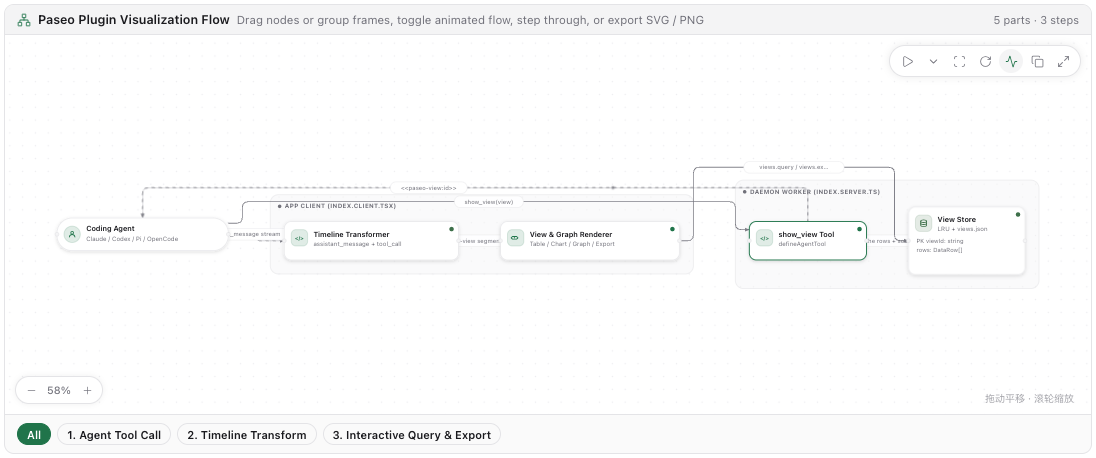
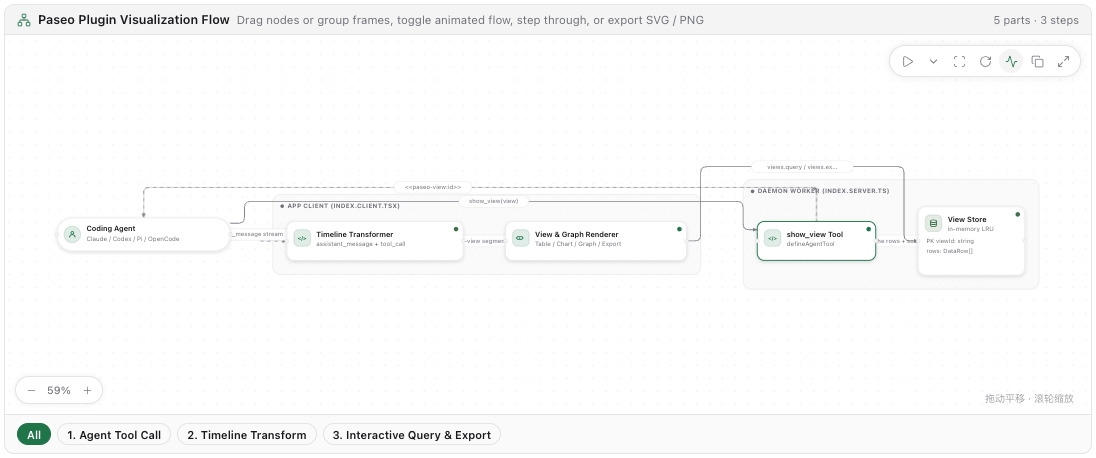
fix: keep tool-backed views in memory

diff --git a/tests/server-sources.test.ts b/tests/server-sources.test.ts
@@ -1,9 +1,9 @@
 import http from "node:http";
-import { mkdir, mkdtemp, rm, writeFile } from "node:fs/promises";
+import { mkdir, mkdtemp, readdir, rm, writeFile } from "node:fs/promises";
 import os from "node:os";
 import path from "node:path";
 import { DatabaseSync } from "node:sqlite";
-import { afterEach, describe, expect, it } from "vitest";
+import { afterEach, describe, expect, it, vi } from "vitest";
 import { parseDotEnv, redactSecret, resolvePostgresUrl } from "../server/env-loader";
 import { createQueryViewHandler } from "../server/handlers";
 import { createShowViewTool } from "../server/show-view-tool";
@@ -18,6 +18,25 @@ async function makeTempDir() {
   const dir = await mkdtemp(path.join(os.tmpdir(), "paseo-gt-test-"));
   tempDirs.push(dir);
   return dir;
+}
+
+function showViewContext(
+  cwd: string,
+): Parameters<ReturnType<typeof createShowViewTool>["execute"]>[1] {
+  return {
+    agent: {
+      id: "agent-1",
+      workspaceId: "ws-1",
+      parentAgentId: null,
+      provider: "codex",
+      cwd,
+      title: "Test",
+      background: false,
+      metadata: {},
+    },
+    paseo: {} as never,
+    signal: new AbortController().signal,
+  };
 }
 
 afterEach(async () => {
@@ -325,6 +344,103 @@ describe("server sources and view lifecycle", () => {
     expect(bashRows).toEqual([{ lang: "bash", val: 42 }]);
   });
 
+  it("evicts the least recently used view when inserting a 201st entry", async () => {
+    const store = new ViewStore();
+    const input = {
+      spec: { type: "table" as const },
+      rows: [],
+      cwd: "/workspace",
+      agentId: "agent-1",
+    };
+    const read = await store.create(input);
+    const updated = await store.create(input);
+    const oldest = await store.create(input);
+    for (let i = 3; i < 200; i++) await store.create(input);
+
+    expect(await store.get(read.viewId)).toEqual(read);
+    const updatedRows = [{ score: 42 }];
+    expect(await store.updateRows(updated.viewId, updatedRows)).toMatchObject({ rows: updatedRows });
+    const newest = await store.create({ ...input, agentId: "agent-2" });
+
+    const entries = await store.list();
+    expect(entries).toHaveLength(200);
+    expect(entries.slice(0, 3).map((entry) => entry.viewId)).toEqual([
+      newest.viewId,
+      updated.viewId,
+      read.viewId,
+    ]);
+    expect(await store.list("agent-2")).toEqual([newest]);
+    expect(await store.get(oldest.viewId)).toBeNull();
+    expect(await store.updateRows(oldest.viewId, [])).toBeNull();
+  });
+
+  it("keeps show_view HTTP rows and headers in memory and expires tokens across store instances", async () => {
+    const dir = await makeTempDir();
+    const headers = { authorization: "Bearer test-only" };
+    const rows = [{ report: "in-memory result" }];
+    const server = http.createServer((req, res) => {
+      if (req.headers.authorization !== headers.authorization) {
+        res.writeHead(401).end();
+        return;
+      }
+      res.writeHead(200, { "content-type": "application/json" }).end(JSON.stringify(rows));
+    });
+    openServers.push(server);
+    await new Promise<void>((resolve) => server.listen(0, "127.0.0.1", () => resolve()));
+    const { port } = server.address() as { port: number };
+    const source = { kind: "http", url: `http://127.0.0.1:${port}`, headers };
+
+    // Redirect the former default path before loading the store. Check filesystem calls
+    // as well as files so a pending background snapshot cannot pass this test.
+    const tmpdir = vi.spyOn(os, "tmpdir").mockReturnValue(dir);
+    const readSnapshot = vi.fn().mockRejectedValue(new Error("Unexpected view snapshot read"));
+    const makeSnapshotDir = vi.fn().mockRejectedValue(new Error("Unexpected view snapshot"));
+    const writeSnapshot = vi.fn().mockRejectedValue(new Error("Unexpected view snapshot"));
+    vi.resetModules();
+    vi.doMock("node:fs/promises", async (importOriginal) => ({
+      ...(await importOriginal<typeof import("node:fs/promises")>()),
+      mkdir: makeSnapshotDir,
+      readFile: readSnapshot,
+      writeFile: writeSnapshot,
+    }));
+    try {
+      const { ViewStore } = await import("../server/view-store");
+      const store = new ViewStore();
+      const getSettings = () => ({ ...DEFAULT_SETTINGS, allowHttpSource: true });
+      const result = await createShowViewTool(store, getSettings).execute(
+        { view: { type: "table", source } },
+        showViewContext(dir),
+      );
+      expect(result.isError).toBeUndefined();
+      const { viewId } = result.structuredContent as { viewId: string };
+      expect(result.structuredContent).toMatchObject({
+        token: `<<paseo-view:${viewId}>>`,
+        preview: rows,
+      });
+      expect(await store.get(viewId)).toMatchObject({ rows, spec: { source: { headers } } });
+      expect(await createQueryViewHandler(store, getSettings)({ viewId, refresh: true })).toMatchObject({
+        rows,
+        error: null,
+      });
+
+      const recreated = new ViewStore();
+      expect(await recreated.get(viewId)).toBeNull();
+      expect(await recreated.list()).toEqual([]);
+      expect(await createQueryViewHandler(recreated, getSettings)({ viewId })).toMatchObject({
+        rows: [],
+        error: expect.stringContaining("was not found"),
+      });
+      expect(writeSnapshot).not.toHaveBeenCalled();
+      expect(makeSnapshotDir).not.toHaveBeenCalled();
+      expect(readSnapshot).not.toHaveBeenCalled();
+      expect(await readdir(dir)).toEqual([]);
+    } finally {
+      vi.doUnmock("node:fs/promises");
+      vi.resetModules();
+      tmpdir.mockRestore();
+    }
+  });
+
   it("stores views via show_view, supports control source overrides, and refreshes stale polling views", async () => {
     const dir = await makeTempDir();
     await writeFile(
@@ -342,7 +458,7 @@ describe("server sources and view lifecycle", () => {
       "utf8",
     );
 
-    const store = new ViewStore({ storeDir: dir });
+    const store = new ViewStore();
     const sourceSettings = { ...DEFAULT_SETTINGS, allowFileSource: true };
     const tool = createShowViewTool(store, () => sourceSettings);
     const result = await tool.execute(
@@ -365,20 +481,7 @@ describe("server sources and view lifecycle", () => {
           ],
         },
       },
-      {
-        agent: {
-          id: "agent-1",
-          workspaceId: "ws-1",
-          parentAgentId: null,
-          provider: "codex",
-          cwd: dir,
-          title: "Test",
-          background: false,
-          metadata: {},
-        },
-        paseo: {} as never,
-        signal: new AbortController().signal,
-      },
+      showViewContext(dir),
     );
 
     expect(result.isError).toBeUndefined();
@@ -413,7 +516,5 @@ describe("server sources and view lifecycle", () => {
 
     const refreshed = await handler({ viewId: sc.viewId });
     expect(refreshed.rows).toEqual([{ region: "NA", revenue: 999 }]);
-
-    await store.flush();
   });
 });

diff --git a/server/view-store.ts b/server/view-store.ts
@@ -1,7 +1,4 @@
 import { randomBytes } from "node:crypto";
-import { mkdir, readFile, rename, writeFile } from "node:fs/promises";
-import os from "node:os";
-import path from "node:path";
 import type { DataRow } from "../shared/query-engine";
 import type { ViewSpec } from "../shared/view-schema";
 
@@ -16,65 +13,17 @@ export interface StoredView {
   sourceKind: string | null;
 }
 
-const DEFAULT_STORE_DIR = path.join(os.tmpdir(), "paseo-graph-tables-views");
 const DEFAULT_MAX_ENTRIES = 200;
 
 export class ViewStore {
   private readonly entries = new Map<string, StoredView>();
-  private readonly storePath: string | null;
   private readonly maxEntries: number;
-  private loaded = false;
-  private writeChain: Promise<void> = Promise.resolve();
 
-  constructor(options?: { storeDir?: string | null; maxEntries?: number }) {
-    const dir = options?.storeDir === undefined ? DEFAULT_STORE_DIR : options.storeDir;
-    this.storePath = dir ? path.join(dir, "views.json") : null;
-    this.maxEntries = options?.maxEntries ?? DEFAULT_MAX_ENTRIES;
-  }
-
-  private async ensureLoaded(): Promise<void> {
-    if (this.loaded) return;
-    this.loaded = true;
-    if (!this.storePath) return;
-    try {
-      const content = await readFile(this.storePath, "utf8");
-      const parsed = JSON.parse(content) as unknown;
-      if (Array.isArray(parsed)) {
-        for (const item of parsed) {
-          if (item && typeof item === "object" && typeof (item as StoredView).viewId === "string") {
-            const view = item as StoredView;
-            this.entries.set(view.viewId, view);
-          }
-        }
-        this.trim();
-      }
-    } catch {
-      // No prior store file or unreadable; start empty
+  constructor({ maxEntries = DEFAULT_MAX_ENTRIES }: { maxEntries?: number } = {}) {
+    if (!Number.isSafeInteger(maxEntries) || maxEntries < 0) {
+      throw new RangeError("maxEntries must be a non-negative safe integer");
     }
-  }
-
-  private trim(): void {
-    while (this.entries.size > this.maxEntries) {
-      const oldestKey = this.entries.keys().next().value;
-      if (oldestKey === undefined) break;
-      this.entries.delete(oldestKey);
-    }
-  }
-
-  private schedulePersist(): void {
-    if (!this.storePath) return;
-    const storePath = this.storePath;
-    const snapshot = [...this.entries.values()];
-    this.writeChain = this.writeChain
-      .then(async () => {
-        await mkdir(path.dirname(storePath), { recursive: true });
-        const tmp = `${storePath}.${process.pid}.tmp`;
-        await writeFile(tmp, JSON.stringify(snapshot), "utf8");
-        await rename(tmp, storePath);
-      })
-      .catch(() => {
-        // Persistence is best-effort
-      });
+    this.maxEntries = maxEntries;
   }
 
   async create(input: {
@@ -83,7 +32,6 @@ export class ViewStore {
     cwd: string;
     agentId: string | null;
   }): Promise<StoredView> {
-    await this.ensureLoaded();
     const viewId = `v_${randomBytes(5).toString("hex")}`;
     const now = new Date().toISOString();
     const entry: StoredView = {
@@ -97,13 +45,14 @@ export class ViewStore {
       sourceKind: input.spec.source?.kind ?? null,
     };
     this.entries.set(viewId, entry);
-    this.trim();
-    this.schedulePersist();
+    if (this.entries.size > this.maxEntries) {
+      const oldestId = this.entries.keys().next().value;
+      if (oldestId !== undefined) this.entries.delete(oldestId);
+    }
     return entry;
   }
 
   async get(viewId: string): Promise<StoredView | null> {
-    await this.ensureLoaded();
     const entry = this.entries.get(viewId);
     if (!entry) return null;
     // Touch LRU order
@@ -113,7 +62,6 @@ export class ViewStore {
   }
 
   async updateRows(viewId: string, rows: DataRow[]): Promise<StoredView | null> {
-    await this.ensureLoaded();
     const existing = this.entries.get(viewId);
     if (!existing) return null;
     const updated: StoredView = {
@@ -123,17 +71,11 @@ export class ViewStore {
     };
     this.entries.delete(viewId);
     this.entries.set(viewId, updated);
-    this.schedulePersist();
     return updated;
   }
 
   async list(agentId?: string): Promise<StoredView[]> {
-    await this.ensureLoaded();
     const all = [...this.entries.values()].reverse();
     return agentId ? all.filter((entry) => entry.agentId === agentId) : all;
-  }
-
-  async flush(): Promise<void> {
-    await this.writeChain;
   }
 }

diff --git a/client/demo-views.ts b/client/demo-views.ts
@@ -342,7 +342,7 @@ export const DEMO_VIEW_ITEMS: readonly DemoViewItem[] = [
           id: "store",
           type: "database",
           label: "View Store",
-          sublabel: "LRU + views.json",
+          sublabel: "in-memory LRU",
           group: "daemon",
           status: "done",
           fields: [

diff --git a/tests/charts-and-export.test.ts b/tests/charts-and-export.test.ts
@@ -83,7 +83,7 @@ async function makeTempDir() {
 }
 
 function createTestExportHandler(outDir: string) {
-  return createExportViewHandler(new ViewStore({ storeDir: outDir }), () => ({
+  return createExportViewHandler(new ViewStore(), () => ({
     ...DEFAULT_SETTINGS,
     exportDirectory: outDir,
   }));

diff --git a/index.server.ts b/index.server.ts
@@ -93,9 +93,8 @@ export default function contribute(server: PluginServerContext) {
     };
   });
 
-  return async () => {
+  return () => {
     unsubSettings();
     removeOpenHook();
-    await store.flush();
   };
 }

diff --git a/OVERVIEW.md b/OVERVIEW.md
@@ -9,7 +9,7 @@ Adapted and re-implemented from [Beluga](https://github.com/beluga-labs/beluga)'
 
 - Views: `table`, `chart` (`bar`, `line`, `area`, `pie`, `donut`, `scatter`), `stats`, `graph` (layered DAG layout with groups, edge kinds, step walkthroughs, and clickable Markdown details), `gantt`, `heatmap`, `calendar`, `colors`, and `code`.
 - Interactive controls: `buttons`, `select`, `number`, `toggle`, and `search`, including safe `{{controlId}}` parameter substitution into source queries, URLs, commands, and scripts.
-- Workspace panel: the Views panel lists views created during the daemon session so you can inspect and refresh them side-by-side.
+- Workspace panel: the Views panel lists views held by the running plugin so you can inspect and refresh them side-by-side.
 
 ## Setup and source permissions
 
@@ -17,7 +17,9 @@ Open **Settings -> Graph & Tables** to configure prompt injection, the `show_vie
 
 File, folder, and HTTP sources are off until you enable them. SQLite is on by default and runs through Node's read-only SQL interface. That interface accepts one SQL statement and does not accept sqlite3 client commands such as `.shell` or `.read`. PostgreSQL (`psql`, with the connection string resolved from `.env` or the environment), shell commands, and inline scripts (`python`, `node`, `sh`, `bash`, `ruby`, `perl`) stay off until you enable them.
 
-`show_view` returns a short preview of the rows it loaded. That preview is the tool result, so the agent receives it and sends it to the agent's model provider with the rest of the turn. The full row set stays in the plugin process for the on-screen view.
+`show_view` returns a short row preview to the agent and its model provider with the rest of the turn. The plugin keeps up to 200 view definitions, including source settings such as HTTP headers, and their loaded rows in memory on the daemon host. The least recently used views are removed when the cache fills. Reloading or stopping the plugin clears the cache, including when the daemon restarts. Run `show_view` again to recreate an expired view. Saving an export writes a separate file to your configured export folder.
+
+Earlier versions may have left a `paseo-graph-tables-views` directory in the daemon's system temporary directory. After stopping the older version, the daemon owner can remove that directory to clear its old snapshots.
 
 ## Compatibility and platform notes
 

diff --git a/README.md b/README.md
@@ -84,7 +84,7 @@ Select a screenshot to inspect the view at its captured size. The six chart exam
 ## Features
 
 - **Agent prompt & `show_view` tool injection** via `agent.open.before` (`index.server.ts`).
-- **Daemon-side view store & query engine** (`server/`) supporting:
+- **Daemon-side view cache & query engine** (`server/`). Tool-backed views stay in memory until evicted or the plugin reloads or stops.
   - 7 data sources: `file` and `folder` (opt-in), `sqlite` (one read-only SQL statement, no sqlite3 client commands), `postgres` (opt-in via `.env`), `http` (opt-in), `command` (opt-in), and `script` (opt-in). A `show_view` row preview is returned to the agent and its model provider.
   - Interactive `controls`: `buttons`, `select`, `number`, `toggle`, `search`, with safe `{{id}}` parameter interpolation.
   - `views.query`, `views.list`, and `views.export` RPCs for sorting, filtering, searching, pagination, live refresh, and host file export (`~/.paseo-exports`, `~/Downloads/paseo-exports`, or `~/Desktop`).
